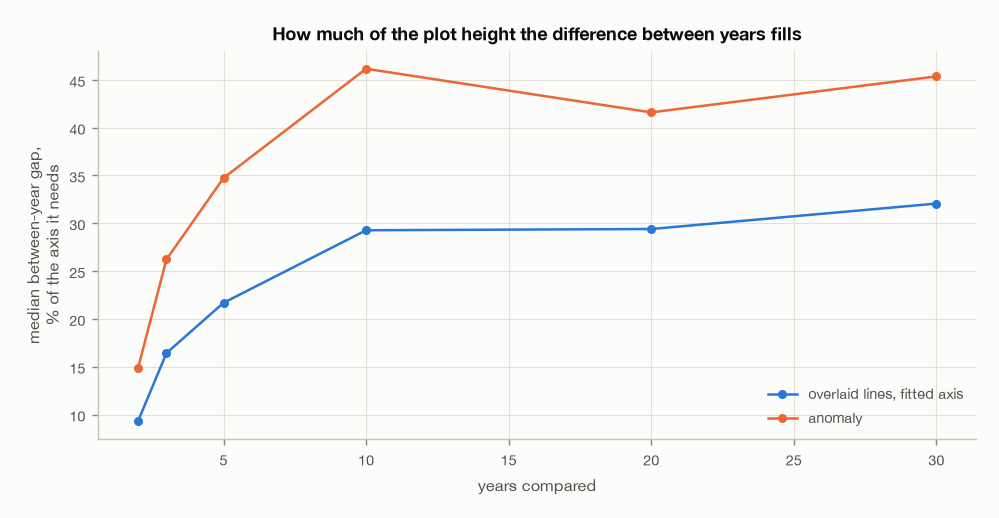
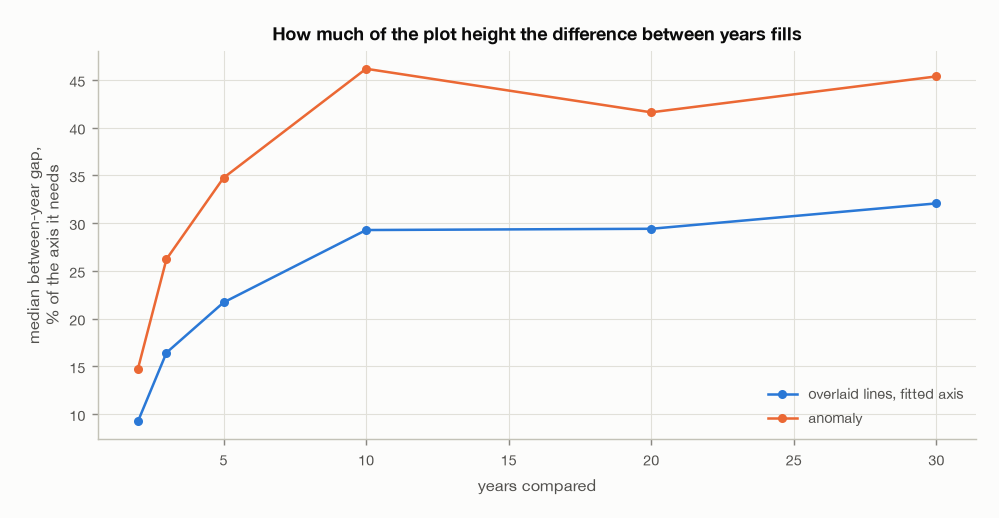
Fix what the review found, including a caveat that ran backwards (20260912 09:09 UTC)
The adversarial review of the analysis found eight things. The three that
mattered:

**The 1993 caveat had the sign wrong.** The document said some of the +0.43 C
across the record was the instrument rather than the climate, and offered the
smaller post-1993 figure as the cleaner number. Document 2 already settled this:
its joint trend-plus-step fit puts the step at -0.262 C, a cooling offset, so it
holds the whole-series figure down rather than propping it up. The two windows
were also a different distance apart, 50 years against 17, which is most of why
their differences differ. The table now reports the gap between window centres
and what the fitted trend alone implies over it: the whole-series comparison
falls 0.29 C short of the trend, which is the step almost exactly, and the
post-1993 one falls short by 0.03 C, which is nothing. +0.43 C is a floor, and
the heatmap's case is stronger than it was, not weaker.

**The archive is 80 years, not 81.** The cell table hardcoded 81, which put the
window at 1945-2025 when there are no 1945 rows, and the document contradicted
itself inside one sentence by saying 81 and eighty of the same span.

**The leap-day fold did not do what its docstring said.** It shifted the days
after 29 February but left 29 February itself on day 60, which is 1 March in
every other year, so the two were averaged together for all 20 leap years. It
now folds onto 28 February as documented. The effect on the headline numbers is
in the third decimal.
[…]

diff --git a/EDA/scripts/eda_forms.py b/EDA/scripts/eda_forms.py
@@ -59,6 +59,16 @@ PLOT_HEIGHT_PX = 520
 # rounded outward the way `src/model/scales.ts` rounds it.
 APP_TEMP_AXIS = (-15.0, 30.0)
 
+# From `EDA/stats/02-break-test.csv`, the joint trend-plus-step fit in document
+# 2: the trend once a step at 1993 is in the model, and the step itself. The
+# step is NEGATIVE, so it holds the whole-series difference down rather than
+# propping it up. It is not significant on the annual mean on its own
+# (p = 0.242); document 2 section 2.4 makes the case from the hour-by-hour
+# decomposition instead. Both numbers are quoted, not refitted, so this module
+# cannot drift from the document that owns them.
+DOC02_TREND_PER_DECADE = 0.14511
+DOC02_STEP_AT_1993_C = -0.262
+
 
 def _day_of_year(index: pd.DatetimeIndex) -> np.ndarray:
     """Day of year with 29 February folded onto 28 February.
@@ -69,8 +79,12 @@ def _day_of_year(index: pd.DatetimeIndex) -> np.ndarray:
     """
     doy = np.asarray(index.dayofyear)
     leap = np.asarray(index.is_leap_year)
-    after_feb29 = leap & (doy > 60)
-    return np.where(after_feb29, doy - 1, doy)
+    # `>= 60`, not `> 60`. In a leap year 29 February is day 60 and 1 March is
+    # day 61; shifting only the days after 29 February left 29 February sitting
+    # on day 60, which is 1 March in every other year, so the two were averaged
+    # together. Shifting from day 60 puts 29 February on 28 February, which is
+    # what this function claims to do, and lands 1 March on 1 March.
+    return np.where(leap & (doy >= 60), doy - 1, doy)
 
 
 def _daily_temp(clean_df: pd.DataFrame) -> pd.DataFrame:
@@ -198,6 +212,11 @@ def table_warming(day: pd.DataFrame) -> pd.DataFrame:
         third = min(block, span // 2)
         early = series.iloc[:third]
         late = series.iloc[-third:]
+        # The two windows are not the same distance apart, so their differences
+        # are not comparable as they stand. Reporting the gap between the window
+        # centres, and what this project's fitted trend alone would predict over
+        # that gap, is what makes them comparable.
+        gap_years = float(late.index.to_series().mean() - early.index.to_series().mean())
         rows.append({
             "window": label,
             "years_used": span,
@@ -208,6 +227,10 @@ def table_warming(day: pd.DataFrame) -> pd.DataFrame:
             "difference_c": float(late.mean() - early.mean()),
             "pct_of_app_axis": 100.0 * float(late.mean() - early.mean())
             / (APP_TEMP_AXIS[1] - APP_TEMP_AXIS[0]),
+            "years_between_window_centres": gap_years,
+            "trend_implied_c": DOC02_TREND_PER_DECADE * gap_years / 10.0,
+            "measured_minus_trend_implied_c": float(late.mean() - early.mean())
+            - DOC02_TREND_PER_DECADE * gap_years / 10.0,
         })
     return pd.DataFrame(rows).set_index("window")
 
@@ -271,6 +294,13 @@ def table_occlusion(day: pd.DataFrame) -> pd.DataFrame:
             "years": count,
             "window": f"{lo}-{hi}",
             "separation_c": sep,
+            # Separation is the range across years, and every window here is a
+            # superset of the one before it, so it can only climb as years are
+            # added: that climb is arithmetic, not a finding. The standard
+            # deviation across years on the same day does not have that
+            # property, and is the honest measure of how spread out they are.
+            "cross_year_sd_c": float(_matrix(day, lo, hi, "mean")
+                                     .std(axis=0, ddof=1).median()),
             "roughness_c": roughness,
             "roughness_over_separation": roughness / sep if sep else float("nan"),
             "pct_days_pair_swaps_raw": _swap_rate(matrix),
@@ -283,17 +313,58 @@ def table_occlusion(day: pd.DataFrame) -> pd.DataFrame:
     return pd.DataFrame(rows).set_index("years")
 
 
+def table_anchor_sweep(day: pd.DataFrame) -> pd.DataFrame:
+    """The same measurements from several end-years, not just from 2025.
+
+    Every other table is anchored at 2025 and extends backwards, which is a
+    choice, and a conclusion that only holds for the most recent decade would be
+    a weak basis for a build decision. Three of these windows deliberately
+    straddle September 1993, so the observation change is inside them.
+    """
+    rows = []
+    windows = [
+        ("2006-2025", 2006, 2025),
+        ("1986-2005", 1986, 2005),
+        ("1983-2002", 1983, 2002),
+        ("1978-1997", 1978, 1997),
+        ("1966-1985", 1966, 1985),
+        ("1946-1965", 1946, 1965),
+    ]
+    for label, lo, hi in windows:
+        matrix = _matrix(day, lo, hi, "mean")
+        sep, _ = _separation(matrix)
+        roughness = float(np.nanmedian([
+            np.nanmedian(np.abs(np.diff(matrix.loc[year].to_numpy())))
+            for year in matrix.index
+        ]))
+        rows.append({
+            "window": label,
+            "years": int(len(matrix.index)),
+            "crosses_1993": lo <= 1993 <= hi,
+            "separation_c": sep,
+            "roughness_c": roughness,
+            "cross_year_sd_c": float(matrix.std(axis=0, ddof=1).median()),
+            "pct_days_pair_swaps": _swap_rate(matrix),
+        })
+    return pd.DataFrame(rows).set_index("window")
+
+
 def table_heatmap_cells(day: pd.DataFrame) -> pd.DataFrame:
     """Cell size for a heatmap of years by day of year, at a real plot size."""
+    # 1946 to 2025 is 80 complete years, which is what the archive holds; 81
+    # would start the window in 1945 and there are no 1945 rows. The column
+    # count is 365 because the leap-day fold shares 28 and 29 February.
+    columns = int(day["doy"].max())
+    full = int(day["year"].max() - day["year"].min())
     rows = []
-    for count in (10, 30, 81):
+    for count in (10, 30, full):
         hi = DEMO_YEARS[1]
         lo = hi - count + 1
         rows.append({
             "years": count,
-            "columns": 366,
-            "cells": count * 366,
-            "cell_width_px": PLOT_WIDTH_PX / 366.0,
+            "columns": columns,
+            "cells": count * columns,
+            "cell_width_px": PLOT_WIDTH_PX / columns,
             "cell_height_px": PLOT_HEIGHT_PX / count,
             "window": f"{lo}-{hi}",
         })
@@ -513,6 +584,7 @@ def run_forms(csv_path: Path) -> None:
     save_table(table_app_axis(day), STATS / "04-axis-cost.csv", float_format="%.3f")
     save_table(table_warming(day), STATS / "04-warming-signal.csv", float_format="%.3f")
     save_table(table_occlusion(day), STATS / "04-occlusion.csv", float_format="%.3f")
+    save_table(table_anchor_sweep(day), STATS / "04-anchor-sweep.csv", float_format="%.3f")
     save_table(table_heatmap_cells(day), STATS / "04-heatmap-cells.csv", float_format="%.3f")
     save_table(table_band_width(day), STATS / "04-band-width.csv", float_format="%.3f")
     save_table(table_envelope(day), STATS / "04-envelope-escape.csv", float_format="%.3f")

diff --git a/EDA/04-chart-forms.md b/EDA/04-chart-forms.md
@@ -32,15 +32,22 @@ Three quantities, all measured on daily mean temperature, in
 | Quantity | What it means | Value |
 |---|---|---|
 | Separation | median gap between the highest and lowest year on a given day, at ten years | 7.22 °C |
+| Spread | median standard deviation across years on a given day, at ten years | 2.36 °C |
 | Roughness | median day-to-day movement within a single year | 1.20 °C |
-| Swap rate | share of days on which a given pair of years changes which is on top | 25.9% |
+| Swap rate | share of days on which a given pair of years changes which is on top | 25.8% |
+
+Separation is a range, a maximum minus a minimum, and every window here is a
+superset of the one before it, so it can only climb as years are added. That
+climb is arithmetic and not a finding, which is why the spread column is there
+beside it: a standard deviation across years does not have that property. It
+rises from 1.51 °C at two years to 2.40 °C at twenty and then stops.
 
 **Resolution is a real problem.** The app's fixed axis spans 45 °C, so a ten-year
 selection's 7.22 °C of separation fills 16.0% of the plot height. An axis fitted
 to what is actually drawn spans 24.67 °C and lifts that to 29.3%.
 
 **Roughness is not the problem.** At 1.20 °C it is smaller than the separation at
-every year count from three upwards, so the lines are not simply lost in their
+every year count tested, two included, so the lines are not simply lost in their
 own noise.
 
 **Ordering is the problem.** Any two years change places on about a quarter of
@@ -59,12 +66,31 @@ once on anomalies, precisely so this is held to the data rather than asserted:
 | Years | Swap rate, raw | Swap rate, anomaly |
 |---|---|---|
 | 2 | 28.022% | 28.022% |
-| 10 | 25.856% | 25.856% |
-| 30 | 25.525% | 25.525% |
+| 10 | 25.844% | 25.844% |
+| 30 | 25.517% | 25.517% |
 
 Identical to three decimals, as it must be. **The anomaly form buys resolution
 and buys exactly nothing in occlusion.** That is not an argument against it. It
 is an argument about which problem it solves.
+
+### It is not an artefact of the decade chosen
+
+Every window above ends at 2025, which is a choice, and a conclusion that only
+held for the most recent decade would be a poor basis for a build decision.
+`EDA/stats/04-anchor-sweep.csv` repeats the measurements on six twenty-year
+windows spread across the record, three of them straddling September 1993:
+
+| Window | Crosses 1993 | Separation | Spread | Swap rate |
+|---|---|---|---|---|
+| 2006-2025 | no | 8.85 °C | 2.43 °C | 25.2% |
+| 1986-2005 | yes | 8.69 °C | 2.32 °C | 25.5% |
+| 1983-2002 | yes | 8.81 °C | 2.37 °C | 25.1% |
+| 1978-1997 | yes | 8.80 °C | 2.36 °C | 24.8% |
+| 1966-1985 | no | 8.58 °C | 2.25 °C | 24.9% |
+| 1946-1965 | no | 8.57 °C | 2.32 °C | 24.6% |
+
+The swap rate sits between 24.6% and 25.5% everywhere, including across the
+observation change. The finding does not depend on the anchor.
 
 ---
 
@@ -87,6 +113,8 @@ From `EDA/stats/04-separation.csv`:
 Against the app's own fixed 45 °C axis the gain is larger still: 16.0% to 46.2%
 at ten years, which is 2.9 times the plot height for the same difference.
 
+![Separation as a share of the axis each form needs](figures/04-separation.png)
+
 **Buys:** the largest resolution gain of the four, at every year count. Cheapest
 to build by a wide margin: a build-time day-of-year normal in `meta.json` and a
 subtraction in the model. No new chart type, no adapter change, and the existing
@@ -105,13 +133,13 @@ One row per year, one column per day, colour carrying the value. From
 
 | Years | Cells | Cell size |
 |---|---|---|
-| 10 | 3,660 | 3.3 × 52.0 px |
-| 30 | 10,980 | 3.3 × 17.3 px |
-| 81 | 29,646 | 3.3 × 6.4 px |
+| 10 | 3,650 | 3.3 × 52.0 px |
+| 30 | 10,950 | 3.3 × 17.3 px |
+| 80 | 29,200 | 3.3 × 6.5 px |
 
 **Buys:** occlusion is gone by construction, because no two years share a pixel.
-It is the only one of the four that can show the whole archive at once, and at 81
-years each row is still 6.4 px tall. It is also the only form that makes the
+It is the only one of the four that can show the whole archive at once, and at 80
+years, which is what the archive holds, each row is still 6.5 px tall. It is also the only form that makes the
 long-run signal visible: the difference between the first and last thirty years
 is **+0.43 °C** (`EDA/stats/04-warming-signal.csv`), which is 0.96% of the app's
 fixed axis, or about five pixels on a 520 px plot. On a line chart that is
@@ -121,14 +149,37 @@ off a colour is far less precise than reading it off an axis, so it answers
 "which years were warm, and when" rather than "how warm was 14 June 2011".
 Sub-daily detail cannot survive it, so the detail slider becomes meaningless
 below one point per day.
-**Best at:** ten years and up, and uniquely at all 81.
+**Best at:** ten years and up, and uniquely at all 80.
 
-**The long-run number carries a caveat.** The station changed how it observes in
-September 1993 (`EDA/01-data-review.md` section 10). Measured only within the
-post-1993 era the first-to-last-fifteen-years difference is **+0.22 °C**, half
-the whole-series figure. Some of the +0.43 °C is the instrument, not the climate.
-A heatmap will show the 1993 step as a horizontal seam, which is honest, and the
-footer already says so.
+**The long-run number carries a caveat, and it runs the other way.** The station
+changed how it observes in September 1993 (`EDA/01-data-review.md` section 10),
+and it would be easy to assume that inflates the +0.43 °C. It does not. Document
+2 fits a trend and a step together, which is the only model that can separate
+them, and puts the step at **-0.262 °C**: a cooling offset
+(`EDA/stats/02-break-test.csv`). It holds the whole-series figure **down**.
+
+The arithmetic is in `EDA/stats/04-warming-signal.csv`, which reports the gap
+between the two window centres alongside the difference, because two windows a
+different distance apart cannot be compared as they stand:
+
+| Window | Measured | Centres apart | Trend alone would give | Difference |
+|---|---|---|---|---|
+| 1946-1975 against 1996-2025 | +0.43 °C | 50 years | +0.73 °C | -0.29 °C |
+| 1994-2008 against 2011-2025 | +0.22 °C | 17 years | +0.25 °C | -0.03 °C |
+
+The trend column uses document 2's fitted +0.145 °C per decade. The whole-series
+comparison falls **0.29 °C short** of what the trend alone predicts, which is the
+-0.262 °C step almost exactly; the post-1993 comparison, which never crosses
+1993, falls short by 0.03 °C, which is nothing. So the smaller +0.22 °C is not a
+cleaner measurement of the same thing. It is a shorter window, and comparing the
+two as though they measured the same quantity was the error.
+
+For the decision this only strengthens the case: **+0.43 °C is a floor.** The
+signal a heatmap would reveal is that or larger. One honest qualifier: the step
+is not significant on the annual mean by itself (p = 0.24), and document 2 makes
+its case from the hour-by-hour decomposition rather than from that test. A
+heatmap will show the 1993 change as a horizontal seam, which is the honest
+outcome, and the app footer already names it.
 
 ### Envelope: a percentile band with years on top
 
@@ -172,11 +223,12 @@ averaged, and a running total of a mean is not a quantity. From
 | Sun | whole series | 1240-1740 h | 364 h | 3.4 |
 
 **Buys:** integrating removes the day-to-day roughness entirely, so the curves
-are smooth and a year's standing is readable at any point. Annual totals differ
-by a factor of two across the archive, which is a large, real signal.
+are smooth and a year's standing is readable at any point. Annual rainfall totals
+differ by a factor of **2.0** across the archive, which is a large, real signal;
+sunshine differs by **1.4**, and those two variables are all this form covers.
 **Costs:** it covers 2 of 13 variables. And the curves are not as well behaved as
-was previously claimed here: a pair swaps order **3.5 times after 1 April**, so
-"they rarely cross" is wrong.
+was previously claimed here: a pair swaps order **3.4 times after 1 April**
+averaged over all four rows of the table, so "they rarely cross" is wrong.
 **Best at:** the question "how wet is this year so far", for rain and sunshine
 only.
 
@@ -184,11 +236,15 @@ only.
 
 ## 3. Side by side
 
+Cells in **bold** are measured and the CSV is named in section 2. The rest are
+judgement, and are marked so, because a table that presents both in the same
+weight is a table that hides which is which.
+
 | | Anomaly | Heatmap | Envelope | Cumulative |
 |---|---|---|---|---|
-| Fixes resolution | **yes, 2.9×** | not applicable | yes | yes |
-| Fixes occlusion | **no, measured** | yes, by construction | yes | partly, 3.5 swaps |
-| Years it supports | 2-5 | 10-81 | 1-2 over a band | 5-10 |
+| Fixes resolution | **yes, 2.9×** | not applicable | judgement: yes | judgement: yes |
+| Fixes occlusion | **no, measured identical** | yes, by construction | judgement: yes | **partly, 3.4 swaps** |
+| Years it supports | **2-5** | **10-80** | judgement: 1-2 over a band | not measured |
 | Variables it covers | all 13 | all 13 | all 13 | **2 of 13** |
 | Exact values readable | yes | no | yes | yes |
 | Keeps zoom, detail, opacity | yes | detail becomes moot | yes | detail becomes moot |
@@ -202,11 +258,11 @@ only.
 **Build the heatmap.** ← recommended
 
 The app's stated purpose is comparing years, and the measured reason it fails at
-that is ordering, not height: any two years change places on a quarter of all
-days, at every year count. The heatmap is the only one of the four that removes
-that problem rather than rescaling around it, the only one that shows all 81
-years at once, and the only one that makes a +0.43 °C shift across eighty years
-visible at all. It is also the most work, and that is the real cost of this
+that is ordering, not height: any two years change places on about a quarter of
+all days, at every year count and in every decade tested. The heatmap is the only
+one of the four that removes that problem rather than rescaling around it, the
+only one that shows all 80 years at once, and the only one on which a shift of
+at least +0.43 °C across those 80 years is visible at all. It is also the most work, and that is the real cost of this
 recommendation.
 
 **Then, or instead if the budget is small: the anomaly.** It is the cheapest
@@ -240,7 +296,7 @@ cumulative curves cross 3.5 times per pair after 1 April rather than rarely, and
 
 - **The colour scale**, if the heatmap is chosen. Diverging around a normal is
   the obvious choice and is not measured here.
-- **What happens to the year strip.** A heatmap of all 81 years does not need a
+- **What happens to the year strip.** A heatmap of all 80 years does not need a
   year selection at all, which touches a control that was just rebuilt.
 - **Whether the forms coexist** as a switch, or replace one another.
 - **Anything about the 1993 discontinuity beyond stating it.** No correction is
@@ -252,8 +308,10 @@ cumulative curves cross 3.5 times per pair after 1 April rather than rarely, and
 |---|---|
 | `EDA/stats/04-separation.csv` | separation and axis span, raw and anomaly, by year count |
 | `EDA/stats/04-axis-cost.csv` | what the app's fixed axis costs against a fitted one |
-| `EDA/stats/04-occlusion.csv` | roughness and the swap rate, raw and anomaly |
-| `EDA/stats/04-warming-signal.csv` | first-to-last difference, whole series and post-1993 |
+| `EDA/stats/04-occlusion.csv` | spread, roughness and the swap rate, raw and anomaly |
+| `EDA/stats/04-anchor-sweep.csv` | the same measures from six different end-years |
+| `EDA/stats/04-warming-signal.csv` | first-to-last difference, the gap it spans, and what the fitted trend alone implies |
+| `EDA/stats/02-break-test.csv` | document 2's joint trend-plus-step fit, quoted here and not refitted |
 | `EDA/stats/04-heatmap-cells.csv` | cell counts and cell size at a real plot size |
 | `EDA/stats/04-band-width.csv` | the 10-90 band's width |
 | `EDA/stats/04-envelope-escape.csv` | days a year spends outside the band |
